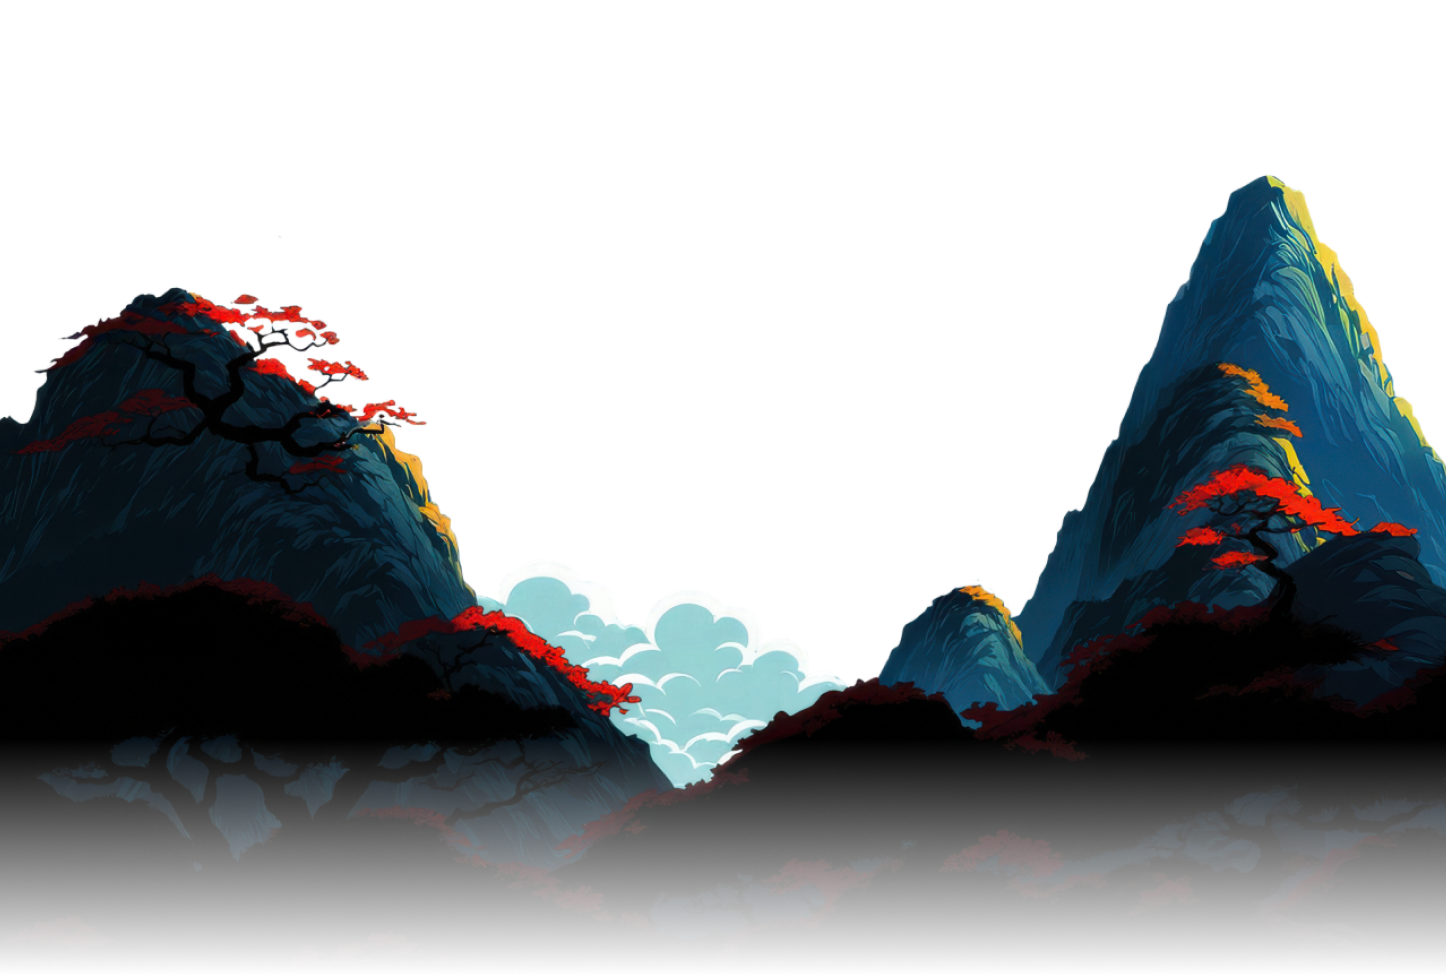
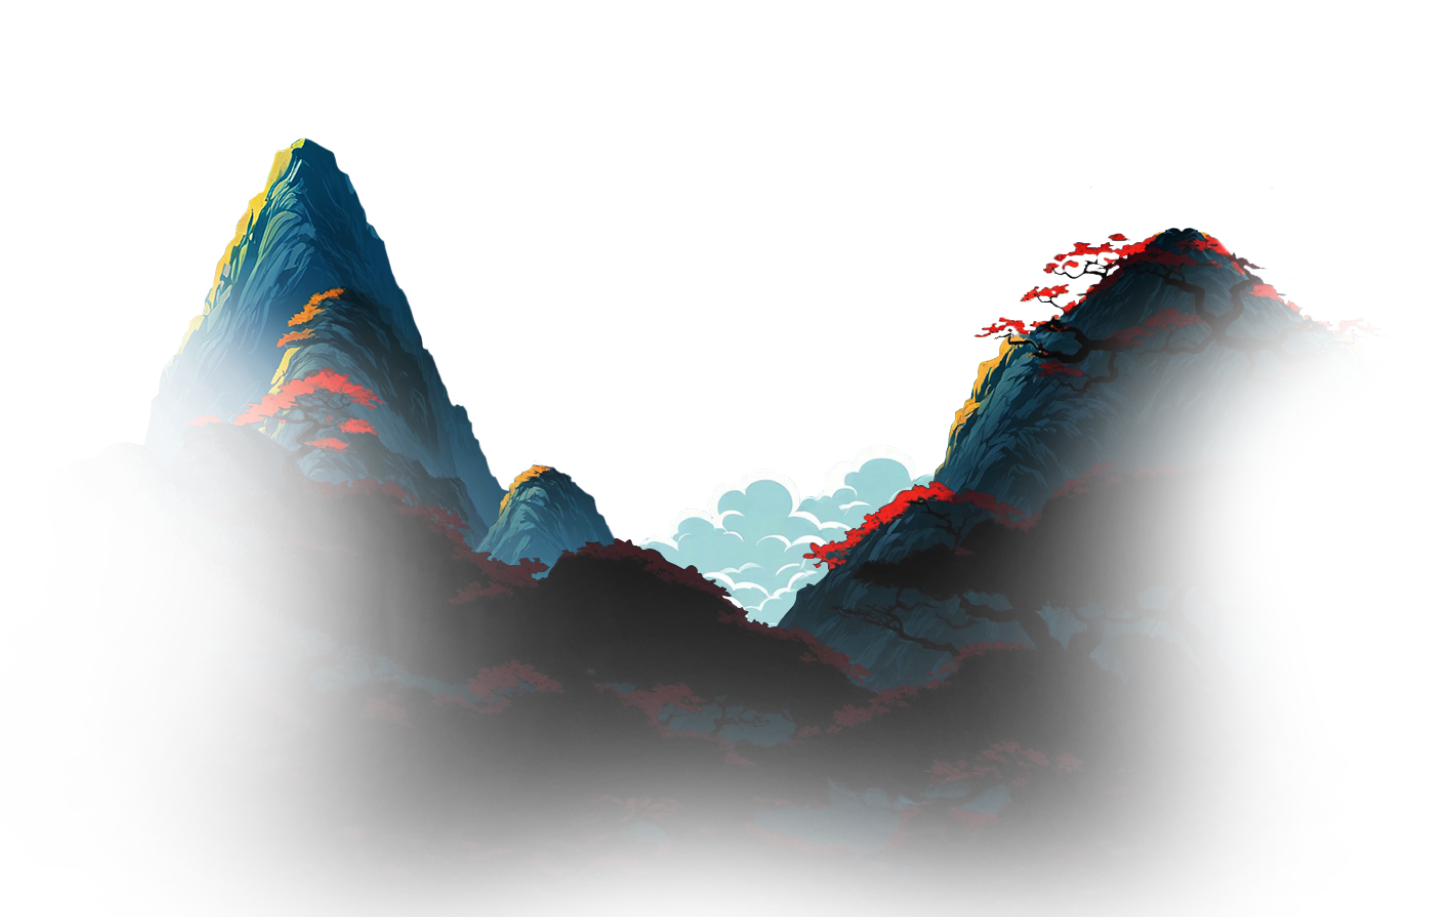
ASL

diff --git a/css/casino-content/asl.css b/css/casino-content/asl.css
@@ -16,7 +16,12 @@
   z-index: 0;
   background-image: url("../../asl/img/layer-0.png");
   background-position: center center;
-  background-size: contain;
+  background-size: cover;
+}
+@media (min-width: 768px) {
+  .studio-page--asl-theme .studio-page__layer--layer-1 {
+    background-size: contain;
+  }
 }
 .studio-page--asl-theme .studio-page__layer--layer-2 {
   z-index: 1;
@@ -24,4 +29,37 @@
   background-position: bottom center;
   display: flex;
   align-items: flex-end;
+  background-size: cover;
+}
+@media (min-width: 768px) {
+  .studio-page--asl-theme .studio-page__layer--layer-2 {
+    background-size: contain;
+  }
+}
+.studio-page--asl-theme .studio-page__scene-figure {
+  display: flex;
+  align-items: flex-end;
+  max-width: fit-content;
+}
+.studio-page--asl-theme .studio-page__scene-figure--left {
+  transform: translateX(-40px);
+}
+.studio-page--asl-theme .studio-page__scene-figure--right {
+  transform: translateX(80px);
+}
+@media (min-width: 768px) {
+  .studio-page--asl-theme .studio-page__scene-figure--left {
+    transform: translateX(-80px);
+  }
+  .studio-page--asl-theme .studio-page__scene-figure--right {
+    transform: translateX(250px);
+  }
+}
+@media (min-width: 1440px) {
+  .studio-page--asl-theme .studio-page__scene-figure--left {
+    transform: translateX(40px);
+  }
+  .studio-page--asl-theme .studio-page__scene-figure--right {
+    transform: translateX(0);
+  }
 }

diff --git a/scss/casino-content/asl.scss b/scss/casino-content/asl.scss
@@ -18,7 +18,11 @@
       z-index: 0;
       background-image: url('../../asl/img/layer-0.png');
       background-position: center center;
-      background-size: contain;
+      background-size: cover;
+
+      @media (min-width: 768px) {
+        background-size: contain;
+      }
     }
 
     &--layer-2 {
@@ -27,6 +31,42 @@
       background-position: bottom center;
       display: flex;
       align-items: flex-end;
+      background-size: cover;
+
+      @media (min-width: 768px) {
+        background-size: contain;
+      }
+    }
+  }
+
+  .studio-page__scene-figure {
+    display: flex;
+    align-items: flex-end;
+    max-width: fit-content;
+  }
+
+  .studio-page__scene-figure--left{
+    transform: translateX(-40px);
+  }
+  .studio-page__scene-figure--right {
+      transform: translateX(80px);
+  }
+
+  @media (min-width: 768px) {
+    .studio-page__scene-figure--left{
+      transform: translateX(-80px);
+    }
+    .studio-page__scene-figure--right {
+        transform: translateX(250px);
+    }
+  }
+
+  @media (min-width: 1440px) {
+    .studio-page__scene-figure--left{
+      transform: translateX(40px);
+    }
+    .studio-page__scene-figure--right {
+        transform: translateX(0 );
     }
   }
 }

diff --git a/css/casino-content/wsg.css b/css/casino-content/wsg.css
@@ -15,10 +15,22 @@
 .studio-page--wsg-theme .studio-page__layer--layer-2 {
   z-index: 1;
   background-image: url("../../wsg/img/layer-1-clouds.png");
+  background-size: cover;
+}
+@media (min-width: 768px) {
+  .studio-page--wsg-theme .studio-page__layer--layer-2 {
+    background-size: contain;
+  }
 }
 .studio-page--wsg-theme .studio-page__layer--layer-1 {
   z-index: 2;
   background-image: url("../../wsg/img/layer-2-mountains.png");
   display: flex;
   align-items: flex-end;
+  background-size: cover;
+}
+@media (min-width: 768px) {
+  .studio-page--wsg-theme .studio-page__layer--layer-1 {
+    background-size: contain;
+  }
 }

diff --git a/scss/casino-content/wsg.scss b/scss/casino-content/wsg.scss
@@ -17,6 +17,11 @@
     &--layer-2 {
       z-index: 1;
       background-image: url('../../wsg/img/layer-1-clouds.png');
+      background-size: cover;
+
+      @media (min-width: 768px) {
+        background-size: contain;
+      }
     }
 
     &--layer-1 {
@@ -24,6 +29,11 @@
       background-image: url('../../wsg/img/layer-2-mountains.png');
       display: flex;
       align-items: flex-end;
+      background-size: cover;
+
+      @media (min-width: 768px) {
+        background-size: contain;
+      }
     }
   }
 }
